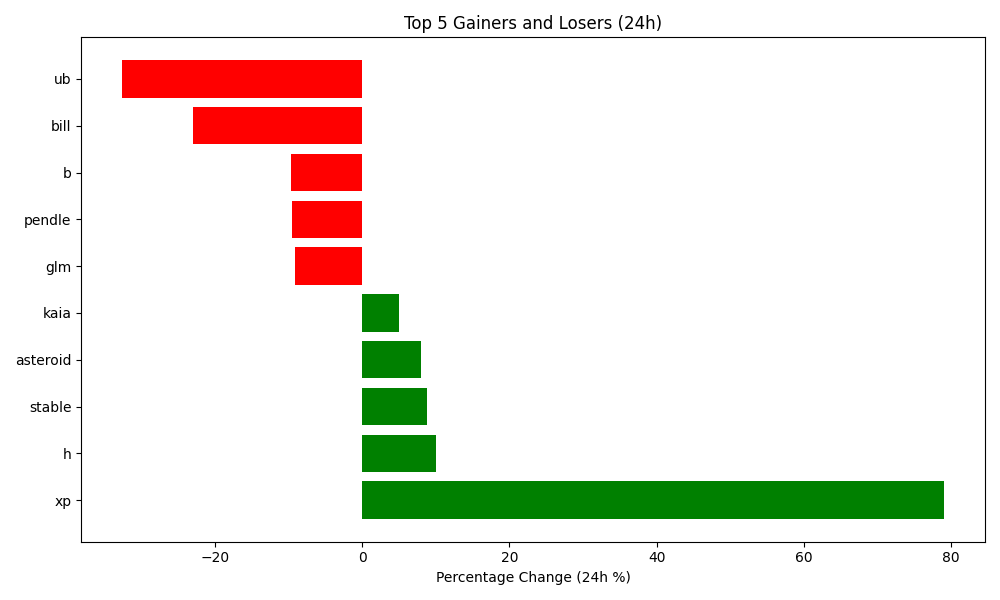
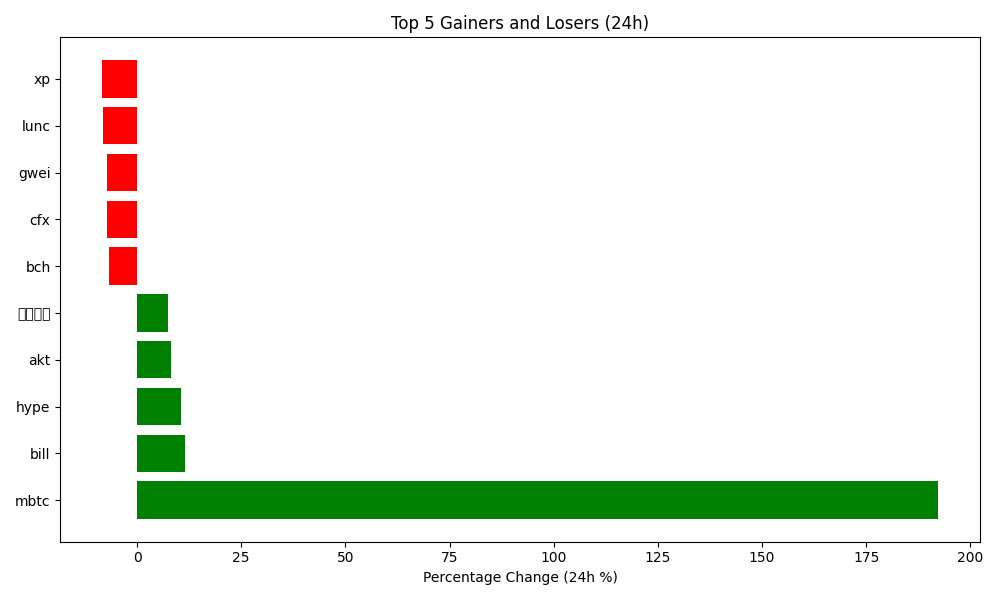
Auto-update crypto data and plot

diff --git a/README.md b/README.md
@@ -4,7 +4,7 @@ Author: Hitesh Agrawal
 This repository automatically tracks the top 5 gaining, top 5 losing, and top 5 highest volume cryptocurrencies in the last 24 hours using the CoinGecko API, Python, Matplotlib, and GitHub Actions updates the below content everyday at midnight.
 
 <!-- START_DYNAMIC_CONTENT -->
-Last updated: 2026-05-17 02:28 UTC
+Last updated: 2026-05-18 02:39 UTC
 
 ![Crypto Movers Plot](crypto_movers_plot.png)
 
@@ -12,33 +12,33 @@ Last updated: 2026-05-17 02:28 UTC
 
 | Rank | Coin | Price Change (24h %) | Volume (USD) | Current Price (USD) |
 | :--: | :--: | :------------------: | :----------: | :-----------------: |
-| 1 | xp | 79.02% | $3,072,680 | $0.0651 |
-| 2 | h | 10.09% | $30,254,214 | $0.2387 |
-| 3 | stable | 8.81% | $30,813,110 | $0.0356 |
-| 4 | asteroid | 7.93% | $15,956,432 | $0.0004 |
-| 5 | kaia | 4.98% | $11,170,535 | $0.0483 |
+| 1 | mbtc | 192.23% | $47,514 | $0.1604 |
+| 2 | bill | 11.55% | $230,607,818 | $0.1551 |
+| 3 | hype | 10.53% | $656,289,669 | $45.8000 |
+| 4 | akt | 8.25% | $9,864,739 | $0.7424 |
+| 5 | 币安人生 | 7.48% | $21,307,250 | $0.4223 |
 
 
 **👇 Top 5 Losers (24h)**
 
 | Rank | Coin | Price Change (24h %) | Volume (USD) | Current Price (USD) |
 | :--: | :--: | :------------------: | :----------: | :-----------------: |
-| 1 | ub | -32.57% | $49,860,014 | $0.1563 |
-| 2 | bill | -22.99% | $780,911,608 | $0.1381 |
-| 3 | b | -9.69% | $37,740,166 | $0.3905 |
-| 4 | pendle | -9.54% | $36,561,027 | $1.8100 |
-| 5 | glm | -9.12% | $23,947,624 | $0.1349 |
+| 1 | xp | -8.40% | $3,248,975 | $0.0618 |
+| 2 | lunc | -8.06% | $53,913,374 | $0.0001 |
+| 3 | gwei | -7.14% | $5,217,755 | $0.1377 |
+| 4 | cfx | -7.09% | $15,343,196 | $0.0604 |
+| 5 | bch | -6.65% | $235,388,888 | $386.0200 |
 
 
 **💎 Top 5 by Trade Volume (24h)**
 
 | Rank | Coin | Price Change (24h %) | Volume (USD) | Current Price (USD) |
 | :--: | :--: | :------------------: | :----------: | :-----------------: |
-| 1 | usdt | 0.01% | $43,311,747,197 | $0.9995 |
-| 2 | btc | -1.66% | $26,123,221,636 | $77,823.0000 |
-| 3 | eth | -2.47% | $10,669,565,000 | $2,172.7900 |
-| 4 | usdc | -0.00% | $6,622,650,359 | $0.9998 |
-| 5 | sol | -3.55% | $2,361,655,867 | $85.9700 |
+| 1 | usdt | -0.01% | $41,102,482,552 | $0.9994 |
+| 2 | btc | -1.29% | $24,284,975,750 | $76,879.0000 |
+| 3 | eth | -2.68% | $11,063,658,383 | $2,116.2600 |
+| 4 | usdc | -0.01% | $7,646,819,154 | $0.9997 |
+| 5 | sol | -1.27% | $2,352,633,124 | $84.9400 |
 
 
 <!-- END_DYNAMIC_CONTENT -->
